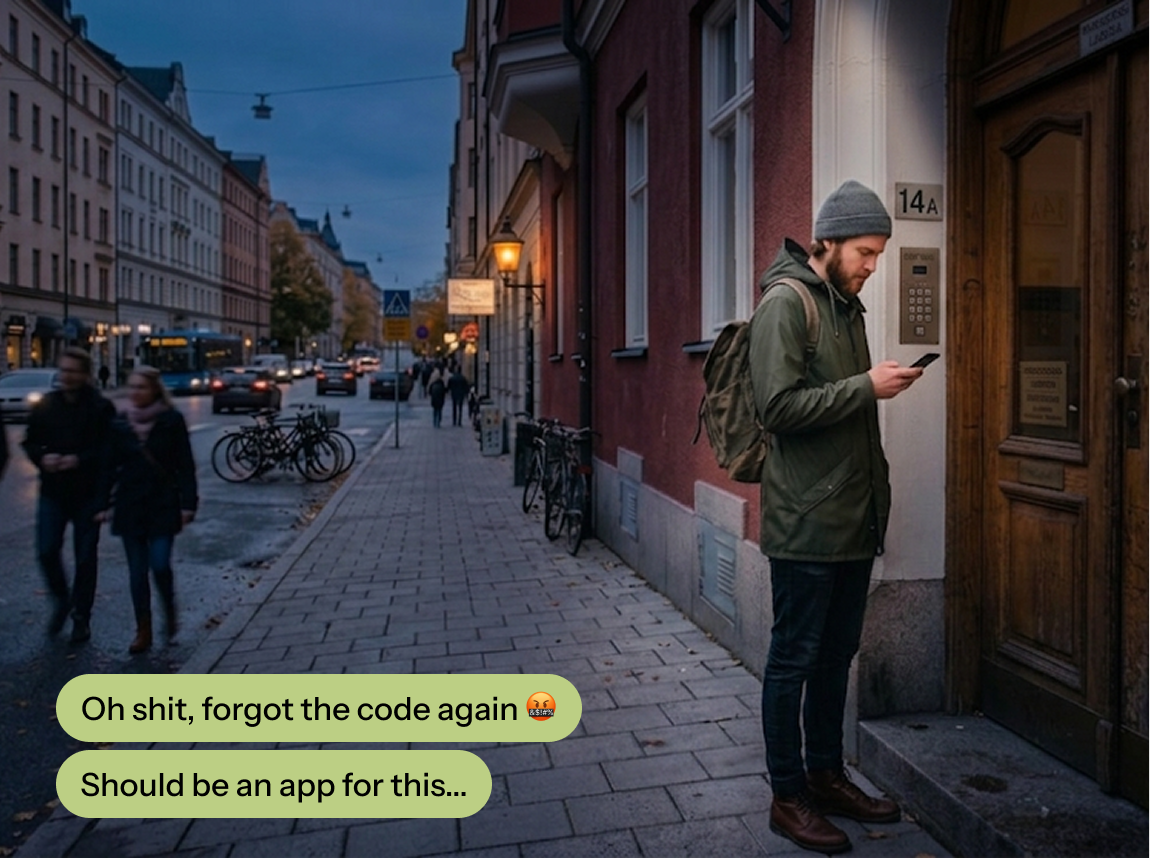
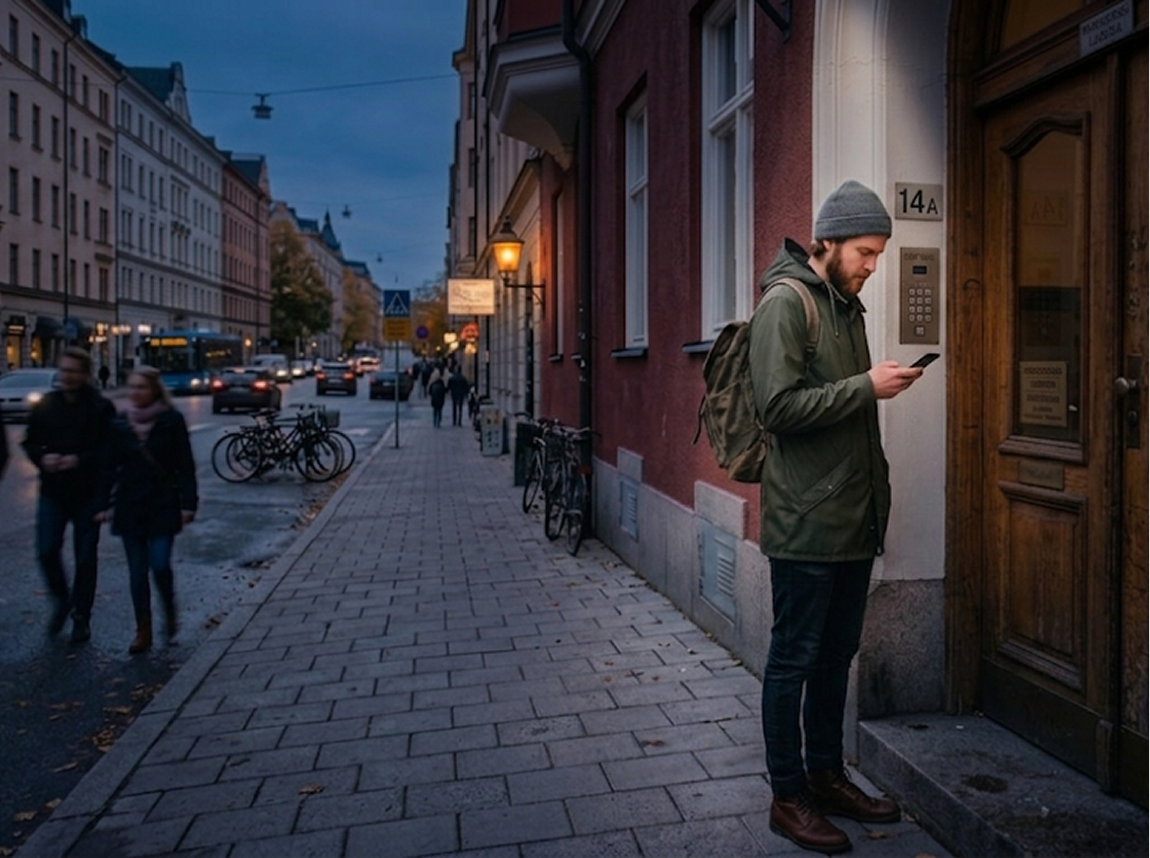
Responsiveness to landing page

Changed region(s): [[0.0304, 0.7879, 0.5174, 0.9697]]

diff --git a/src/components/pages/LandingPage/LandingPage.jsx b/src/components/pages/LandingPage/LandingPage.jsx
@@ -6,6 +6,7 @@ import styles from "./LandingPage.module.css"
 import NavBar from "../../shared/NavBar/NavBar"
 import { Link } from "react-router"
 import Menu from "../../shared/Menu/Menu"
+import ChatBubble from "./ChatBubble/ChatBubble"
 
 function LandingPage() {
 
@@ -31,9 +32,21 @@ function LandingPage() {
                 </div>
                     <ButtonLink path={"/signup"} variant="primary" text="Create an account"/> 
             </section>
-            <section className={styles.imgContainer}>
-                <img src={Hero1} alt="Man asking friend for door code" />
-                <img src={Hero2} alt="Woman asking friend for door code" />
+            <section className={styles.heroContainer}>
+                <div className={styles.imgContainer}>
+                    <div className={styles.chatGroup}>
+                        <ChatBubble color={"green"} text={"Oh shit, forgot the code again 🤬"}/>
+                        <ChatBubble color={"green"} text={"Should be an app for this..."}/>
+                    </div>
+                    <img src={Hero1} alt="Man asking friend for door code" />
+                </div>
+                <div className={styles.imgContainer}>
+                <div className={styles.chatGroup}>
+                        <ChatBubble color={"yellow"} text={"I’m here now"}/>
+                        <ChatBubble color={"yellow"} text={"what’s the code again 😣"}/>
+                    </div>
+                    <img src={Hero2} alt="Woman asking friend for door code" />
+                </div>
             </section>
         </div>
         </>

diff --git a/src/components/pages/LandingPage/LandingPage.module.css b/src/components/pages/LandingPage/LandingPage.module.css
@@ -27,18 +27,71 @@
     gap: 16px;
 }
 
-.imgContainer {
+.heroContainer {
     display: grid;
     grid-template-columns: 2fr 1fr;
     gap: 8px;
     height: 400px;
 }
 
-.imgContainer img {
+.heroContainer img {
     display: block;
     border-radius: 12px;
     height: 100%;
     width: 100%;
     object-fit: cover;
-    object-position: bottom left
+    object-position: bottom left;
 }
+
+.imgContainer {
+    position: relative;
+}
+
+.imgContainer:nth-child(1) img {
+    object-position: bottom right;
+}
+
+.imgContainer:nth-child(2) img {
+    object-position: bottom left;
+}
+
+.chatGroup {
+    display: flex;
+    flex-direction: column;
+    gap: 4px;
+    position: absolute;
+    bottom: 24px;
+    left: 24px;
+    align-items: flex-start;
+}
+
+@media (width <= 750px) {
+    .imgContainer:nth-child(2) {
+        display: none;
+    }
+
+    .heroContainer {
+        display: grid;
+        grid-template-columns: 1fr;
+        height: 400px;
+    }
+}
+
+@media (width <= 600px) {
+    .titleGroup {
+        width: 100%;
+    }
+}
+
+@media (width <= 400px) {
+    .title {
+        font-size: 3rem;
+    }
+
+    .hero {
+        padding-block: 40px;
+        gap: 24px;
+    }
+}
+
+

diff --git a/src/components/pages/LandingPage/ChatBubble/ChatBubble.jsx b/src/components/pages/LandingPage/ChatBubble/ChatBubble.jsx
@@ -1,0 +1,7 @@
+import styles from "./ChatBubble.module.css"
+
+function ChatBubble({color, text}) {
+    return <div className={`${styles.chatBubble} ${color === "yellow" ? styles.yellow : styles.green}`}>{text}</div>
+}
+
+export default ChatBubble

diff --git a/src/components/pages/LandingPage/ChatBubble/ChatBubble.module.css b/src/components/pages/LandingPage/ChatBubble/ChatBubble.module.css
@@ -1,0 +1,13 @@
+.chatBubble {
+    padding-inline: 12px;
+    padding-block: 6px;
+    border-radius: 99px;
+}
+
+.green {
+    background-color: #BCCF84;
+}
+
+.yellow {
+    background-color: #EFDBC4;
+}
